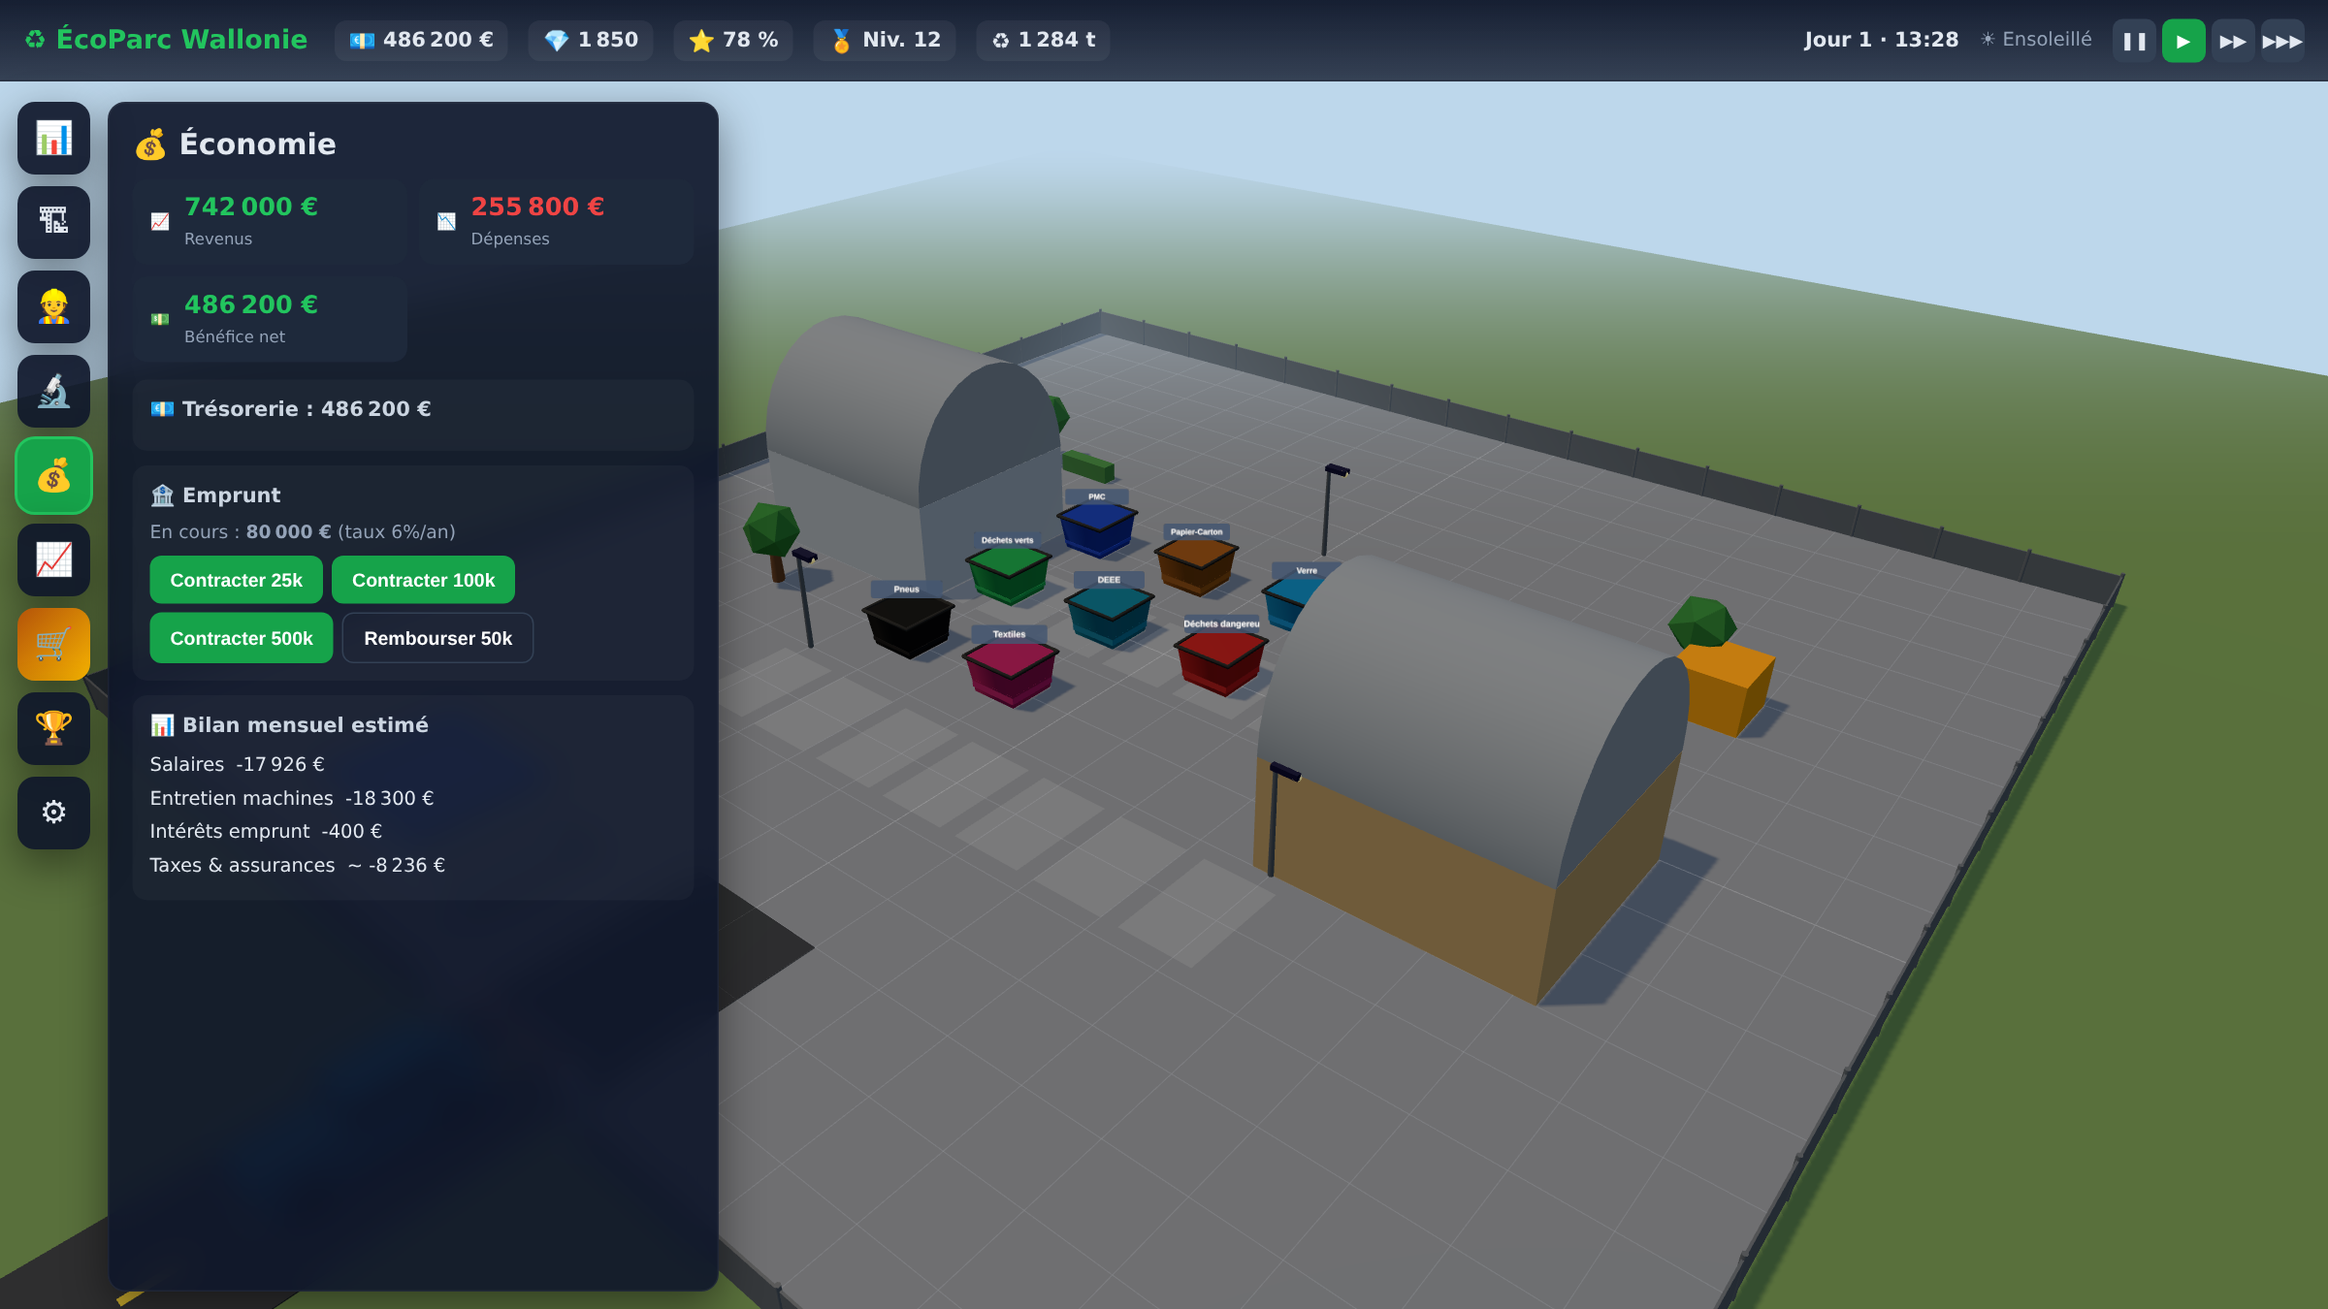
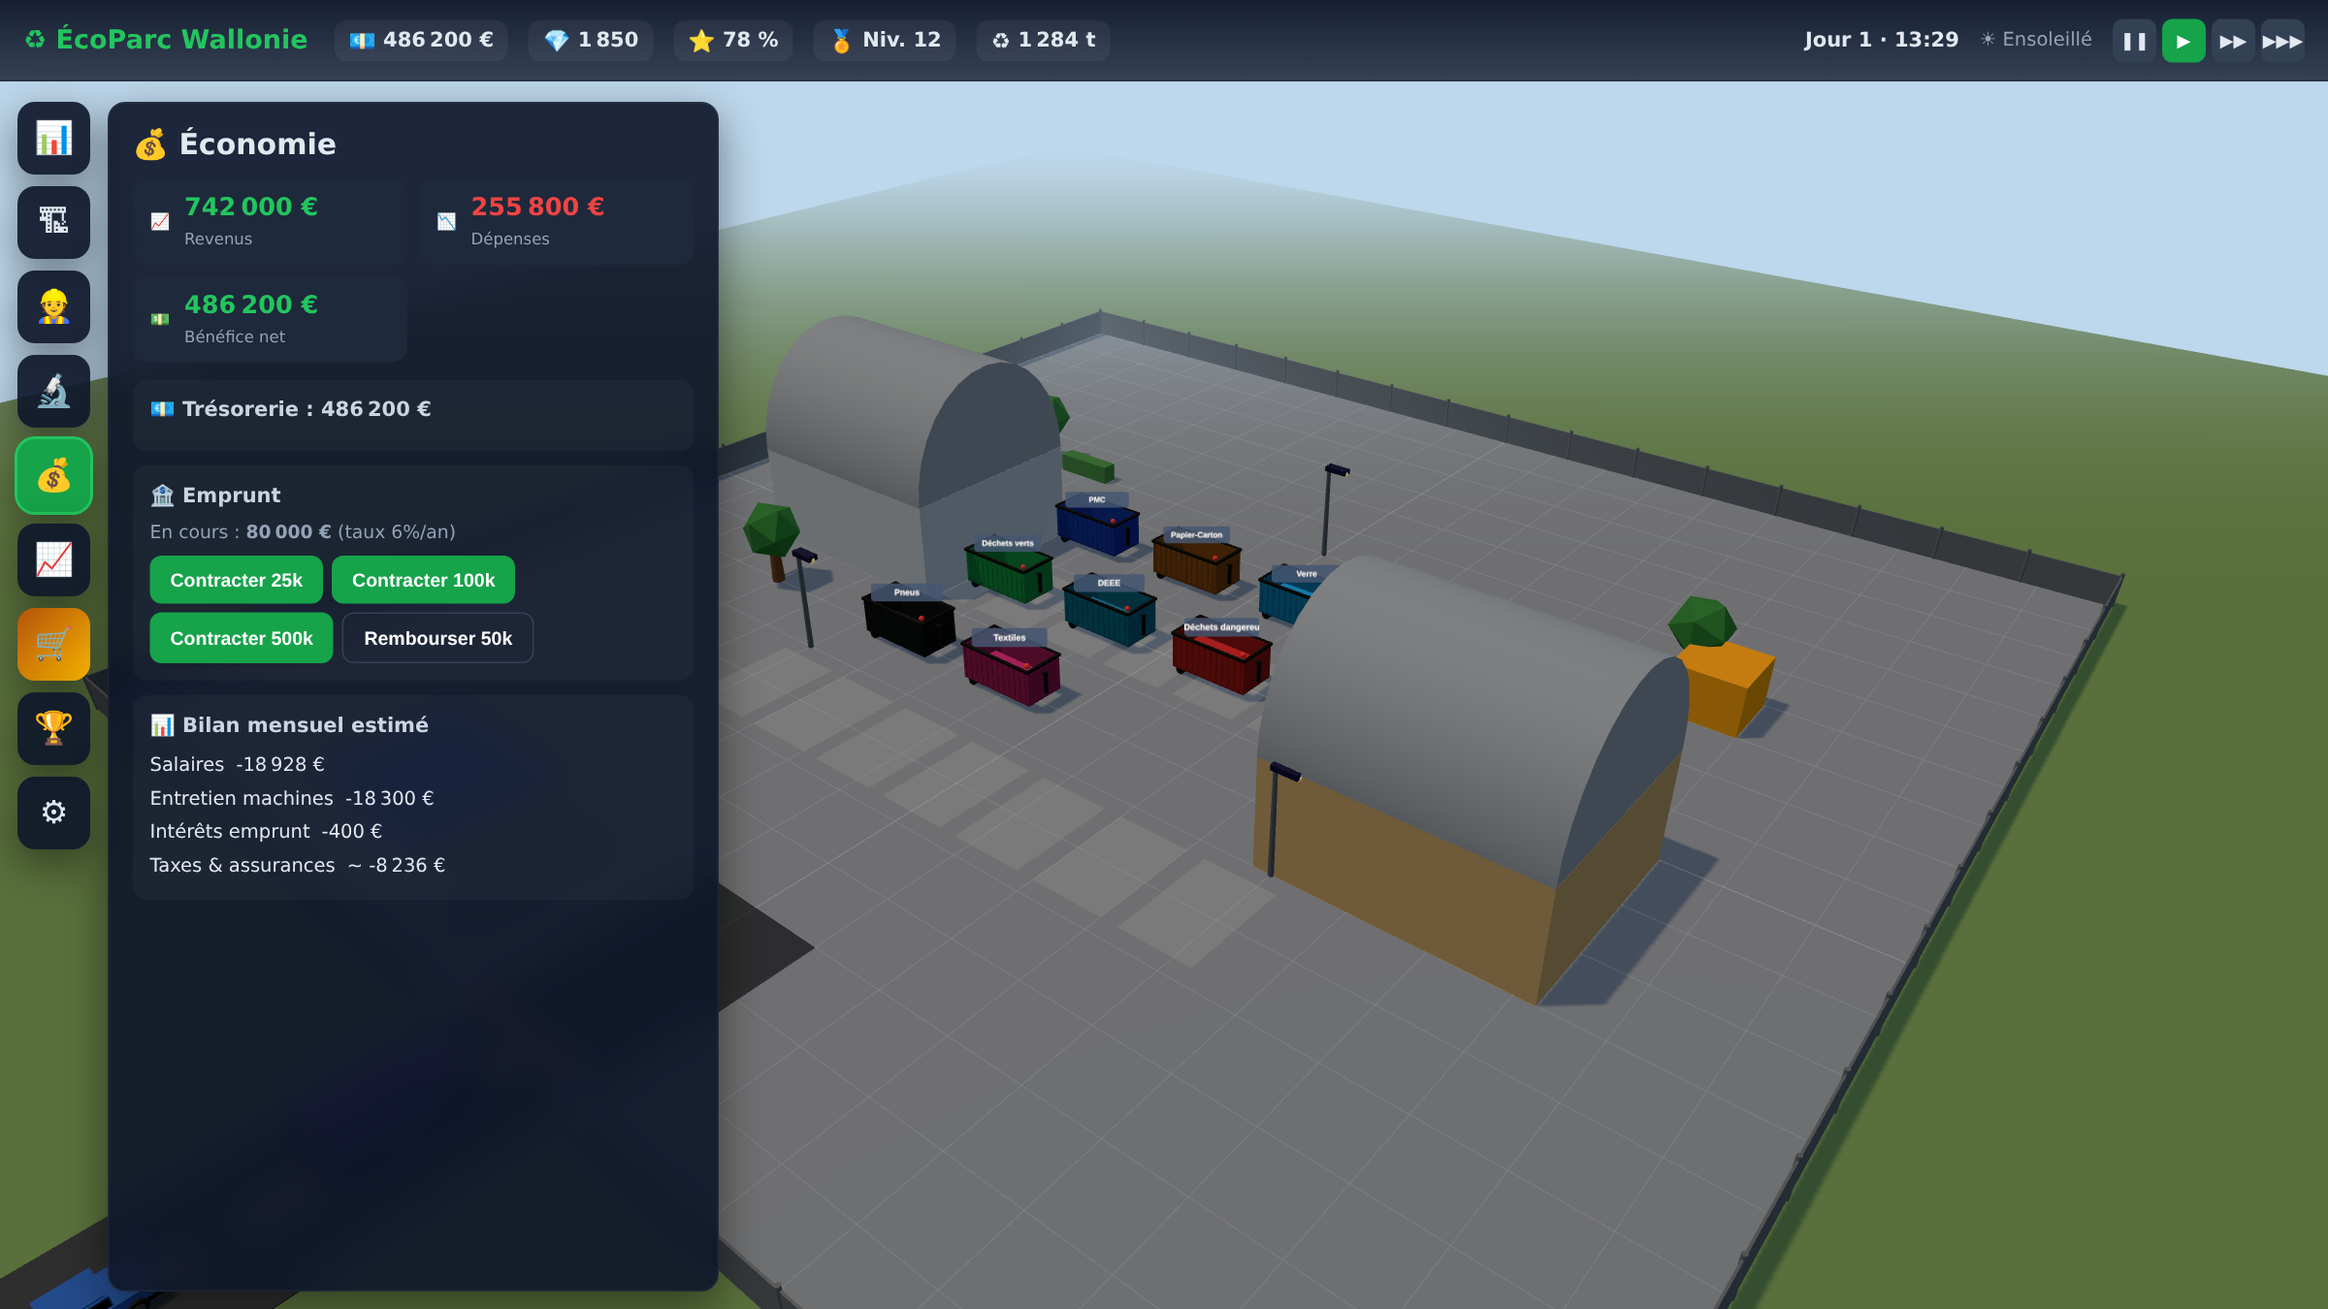
Conteneurs réalistes (bennes roll-off à toit ouvert) + véhicules détaillés
- Conteneurs refaits en bennes ampliroll vertes à toit ouvert (tôle ondulée,
  rebord, barre + crochet, galets, gyrophare 'plein'), façon recyparc belge
- Véhicules procéduraux réalistes : berline, break, camionnette, camion avec
  benne verte, voiture+remorque (habitacle vitré, roues à jantes, feux)
- Captures de la maquette régénérées

Changed region(s): [[0.375, 0.3733, 0.5625, 0.56], [0.0, 0.9644, 0.0625, 1.0]]

diff --git a/src/scene3d.js b/src/scene3d.js
@@ -205,26 +205,60 @@ export class Scene3D {
   // ===========================================================================
 
   // --- Conteneur (benne trapézoïdale) ----------------------------------------
+  // Benne roll-off (conteneur ampliroll) à toit ouvert, façon recyparc belge.
   _makeContainerMesh(fraction) {
     const grp = new THREE.Group();
-    const col = new THREE.Color((FRACTIONS[fraction] && FRACTIONS[fraction].color) || '#4caf50');
-    const mat = new THREE.MeshStandardMaterial({ color: col, metalness: 0.55, roughness: 0.55 });
-    // corps (légèrement évasé)
-    const body = new THREE.Mesh(new THREE.CylinderGeometry(2.4, 2.0, 2.2, 4), mat);
-    body.rotation.y = Math.PI / 4; body.position.y = 1.1;
-    body.castShadow = true; body.receiveShadow = true;
-    grp.add(body);
-    // rebord
-    const rim = new THREE.Mesh(new THREE.TorusGeometry(2.5, 0.12, 6, 4), new THREE.MeshStandardMaterial({ color: 0x222222 }));
-    rim.rotation.x = Math.PI / 2; rim.rotation.z = Math.PI / 4; rim.position.y = 2.2; grp.add(rim);
-    // matière à l'intérieur (jauge de remplissage)
-    const fillMat = new THREE.MeshStandardMaterial({ color: col.clone().multiplyScalar(0.7), roughness: 1 });
-    const fill = new THREE.Mesh(new THREE.BoxGeometry(3.0, 1, 3.0), fillMat);
-    fill.position.y = 0.5; fill.scale.y = 0.02; grp.add(fill);
+    const base = new THREE.Color((FRACTIONS[fraction] && FRACTIONS[fraction].color) || '#2f6b3a');
+    // teinte « acier peint » (assombrie vers le vert industriel)
+    const steel = base.clone().lerp(new THREE.Color('#13351f'), 0.22);
+    const mat = new THREE.MeshStandardMaterial({ color: steel, metalness: 0.55, roughness: 0.5 });
+    const dark = new THREE.MeshStandardMaterial({ color: steel.clone().multiplyScalar(0.72), metalness: 0.55, roughness: 0.55 });
+    const black = new THREE.MeshStandardMaterial({ color: 0x141414, metalness: 0.5, roughness: 0.6 });
+
+    const L = 4.8, W = 2.4, H = 2.0, FY = 0.5, t = 0.12;
+    // plancher
+    const floor = new THREE.Mesh(new THREE.BoxGeometry(L, 0.16, W), dark);
+    floor.position.y = FY; floor.receiveShadow = true; grp.add(floor);
+    // parois longues + courtes (toit ouvert)
+    for (const sz of [-1, 1]) {
+      const s = new THREE.Mesh(new THREE.BoxGeometry(L, H, t), mat);
+      s.position.set(0, FY + H / 2, sz * (W / 2 - t / 2)); s.castShadow = true; s.receiveShadow = true; grp.add(s);
+    }
+    for (const sx of [-1, 1]) {
+      const s = new THREE.Mesh(new THREE.BoxGeometry(t, H, W), mat);
+      s.position.set(sx * (L / 2 - t / 2), FY + H / 2, 0); s.castShadow = true; grp.add(s);
+    }
+    // nervures verticales (tôle ondulée)
+    const ribN = Math.floor(L / 0.42);
+    for (let i = 0; i <= ribN; i++) {
+      const x = -L / 2 + 0.2 + i * (L - 0.4) / ribN;
+      for (const sz of [-1, 1]) {
+        const r = new THREE.Mesh(new THREE.BoxGeometry(0.07, H * 0.92, 0.06), dark);
+        r.position.set(x, FY + H / 2, sz * (W / 2)); grp.add(r);
+      }
+    }
+    // rebord supérieur (4 barres) — laisse le dessus ouvert
+    for (const sz of [-1, 1]) { const r = new THREE.Mesh(new THREE.BoxGeometry(L + 0.12, 0.14, 0.16), black); r.position.set(0, FY + H, sz * (W / 2)); grp.add(r); }
+    for (const sx of [-1, 1]) { const r = new THREE.Mesh(new THREE.BoxGeometry(0.16, 0.14, W + 0.12), black); r.position.set(sx * (L / 2), FY + H, 0); grp.add(r); }
+    // barre + crochet d'ampliroll à l'avant (+X)
+    const bar = new THREE.Mesh(new THREE.BoxGeometry(0.16, 1.3, 0.16), black); bar.position.set(L / 2 + 0.12, FY + H * 0.45, 0); grp.add(bar);
+    const hook = new THREE.Mesh(new THREE.TorusGeometry(0.2, 0.05, 6, 10, Math.PI), black); hook.rotation.x = Math.PI / 2; hook.position.set(L / 2 + 0.12, FY + H * 0.45 + 0.65, 0); grp.add(hook);
+    // galets/roues arrière (-X) caractéristiques du roll-off
+    const roller = new THREE.Mesh(new THREE.CylinderGeometry(0.26, 0.26, W * 0.9, 12), black);
+    roller.rotation.x = Math.PI / 2; roller.position.set(-L / 2 + 0.4, 0.26, 0); grp.add(roller);
+    // matière à l'intérieur (jauge de remplissage, visible par le dessus ouvert)
+    const fill = new THREE.Mesh(new THREE.BoxGeometry(L - 0.4, 1, W - 0.4),
+      new THREE.MeshStandardMaterial({ color: base.clone().multiplyScalar(0.85), roughness: 1, flatShading: true }));
+    fill.position.y = FY + 0.1; fill.scale.y = 0.02; grp.add(fill);
     grp.userData.fill = fill;
-    // panneau d'identification
+    // bandeau d'identification (panneau réfléchissant) sur la paroi avant
     const label = this._makeLabelSprite(FRACTIONS[fraction] ? FRACTIONS[fraction].name : fraction);
-    label.position.set(0, 3.4, 0); grp.add(label);
+    label.position.set(0, FY + H + 0.7, 0); grp.add(label);
+    // gyrophare « plein » (clignote quand saturé)
+    const beacon = new THREE.Mesh(new THREE.SphereGeometry(0.16, 8, 8),
+      new THREE.MeshStandardMaterial({ color: 0xff3b30, emissive: 0xff0000, emissiveIntensity: 0 }));
+    beacon.position.set(L / 2 - 0.3, FY + H + 0.16, W / 2 - 0.3); grp.add(beacon);
+    grp.userData.beacon = beacon;
     grp.userData.kind = 'container';
     return grp;
   }
@@ -244,10 +278,10 @@ export class Scene3D {
     if (!mesh) return;
     const ratio = Math.max(0, Math.min(1, container.fill / container.capacity));
     const fill = mesh.userData.fill;
-    fill.scale.y = Math.max(0.02, ratio * 1.6);
-    fill.position.y = 0.3 + fill.scale.y / 2;
-    // clignote en rouge si plein
-    if (ratio >= 0.98) mesh.userData.full = true; else mesh.userData.full = false;
+    fill.scale.y = Math.max(0.02, ratio * 1.8);
+    fill.position.y = 0.58 + fill.scale.y / 2;
+    // gyrophare « plein »
+    mesh.userData.full = ratio >= 0.98;
   }
 
   removeContainer(id) {
@@ -326,37 +360,108 @@ export class Scene3D {
   }
 
   // --- Véhicules visiteurs ----------------------------------------------------
+  // Véhicules procéduraux réalistes (berline, break, camionnette, camion, remorque).
+  // L'avant du véhicule pointe vers +Z (sens de marche).
   _makeVehicleMesh(v) {
     const grp = new THREE.Group();
     const col = new THREE.Color(v.color);
-    const bodyMat = new THREE.MeshStandardMaterial({ color: col, metalness: 0.5, roughness: 0.4 });
-    const cabH = v.h * 0.6;
-    // châssis
-    const body = new THREE.Mesh(new THREE.BoxGeometry(v.w, v.h * 0.55, v.l), bodyMat);
-    body.position.y = v.h * 0.45; body.castShadow = true; grp.add(body);
-    // cabine / toit
-    const cab = new THREE.Mesh(new THREE.BoxGeometry(v.w * 0.92, cabH, v.l * 0.45),
-      new THREE.MeshStandardMaterial({ color: col.clone().multiplyScalar(1.1), metalness: 0.3, roughness: 0.3 }));
-    cab.position.set(0, v.h * 0.45 + cabH / 2, v.l * 0.15); cab.castShadow = true; grp.add(cab);
-    // vitres
-    const glass = new THREE.Mesh(new THREE.BoxGeometry(v.w * 0.94, cabH * 0.7, v.l * 0.46),
-      new THREE.MeshStandardMaterial({ color: 0x1b2a3a, metalness: 0.6, roughness: 0.1 }));
-    glass.position.copy(cab.position); glass.position.y += 0.02; glass.scale.set(1.01, 1, 1.01); grp.add(glass);
-    // roues
-    const wheelGeo = new THREE.CylinderGeometry(v.h * 0.22, v.h * 0.22, 0.3, 12);
-    const wheelMat = new THREE.MeshStandardMaterial({ color: 0x111111 });
-    const wy = v.h * 0.22;
-    const xoff = v.w / 2;
-    for (const sx of [-1, 1]) for (const sz of [-1, 1]) {
-      const wheel = new THREE.Mesh(wheelGeo, wheelMat);
-      wheel.rotation.z = Math.PI / 2;
-      wheel.position.set(sx * xoff, wy, sz * v.l * 0.32);
-      grp.add(wheel);
-    }
-    // phares
-    for (const sx of [-1, 1]) {
-      const h = new THREE.Mesh(new THREE.SphereGeometry(0.12, 6, 6), new THREE.MeshStandardMaterial({ color: 0xfff7d0, emissive: 0xfff0a0 }));
-      h.position.set(sx * v.w * 0.3, v.h * 0.4, v.l / 2); grp.add(h);
+    const paint = new THREE.MeshStandardMaterial({ color: col, metalness: 0.55, roughness: 0.32 });
+    const paint2 = new THREE.MeshStandardMaterial({ color: col.clone().multiplyScalar(0.92), metalness: 0.55, roughness: 0.32 });
+    const glass = new THREE.MeshStandardMaterial({ color: 0x0d1722, metalness: 0.9, roughness: 0.08 });
+    const trim = new THREE.MeshStandardMaterial({ color: 0x15171a, roughness: 0.7, metalness: 0.3 });
+    const chrome = new THREE.MeshStandardMaterial({ color: 0xccd2d8, metalness: 0.9, roughness: 0.25 });
+    const lightF = new THREE.MeshStandardMaterial({ color: 0xfff6d5, emissive: 0xfff0b0, emissiveIntensity: 0.85 });
+    const lightR = new THREE.MeshStandardMaterial({ color: 0x6e0d0d, emissive: 0xff2222, emissiveIntensity: 0.55 });
+    const green = new THREE.MeshStandardMaterial({ color: 0x2f6b3a, metalness: 0.5, roughness: 0.6 });
+
+    const W = v.w, L = v.l, H = v.h;
+    const wheelR = Math.max(0.3, H * 0.21);
+    let cl = L, cz = 0; // longueur/centre de la caisse (modifiables pour la remorque)
+
+    const addWheel = (x, z, r = wheelR) => {
+      const tire = new THREE.Mesh(new THREE.CylinderGeometry(r, r, 0.32, 16), trim);
+      tire.rotation.z = Math.PI / 2; tire.position.set(x, r, z); tire.castShadow = true; grp.add(tire);
+      const hub = new THREE.Mesh(new THREE.CylinderGeometry(r * 0.55, r * 0.55, 0.34, 8), chrome);
+      hub.rotation.z = Math.PI / 2; hub.position.set(x, r, z); grp.add(hub);
+    };
+    const addLights = (frontZ, backZ) => {
+      for (const sx of [-1, 1]) {
+        const hl = new THREE.Mesh(new THREE.BoxGeometry(0.3, 0.18, 0.07), lightF); hl.position.set(sx * W * 0.32, wheelR + 0.28, frontZ); grp.add(hl);
+        const tl = new THREE.Mesh(new THREE.BoxGeometry(0.3, 0.16, 0.07), lightR); tl.position.set(sx * W * 0.32, wheelR + 0.32, backZ); grp.add(tl);
+      }
+    };
+
+    const buildCar = (wagon) => {
+      const bH = 0.5, bY = wheelR + 0.04;
+      const lower = new THREE.Mesh(new THREE.BoxGeometry(W, bH, cl * 0.98), paint);
+      lower.position.set(0, bY + bH / 2, cz); lower.castShadow = true; grp.add(lower);
+      const skirt = new THREE.Mesh(new THREE.BoxGeometry(W * 1.01, 0.18, cl * 0.99), trim);
+      skirt.position.set(0, bY, cz); grp.add(skirt);
+      const cabL = wagon ? cl * 0.55 : cl * 0.44;
+      const cabZ = cz + (wagon ? -cl * 0.02 : -cl * 0.05);
+      const cab = new THREE.Mesh(new THREE.BoxGeometry(W * 0.9, 0.46, cabL), paint2);
+      cab.position.set(0, bY + bH + 0.22, cabZ); cab.castShadow = true; grp.add(cab);
+      const gb = new THREE.Mesh(new THREE.BoxGeometry(W * 0.93, 0.34, cabL * 0.95), glass);
+      gb.position.set(0, bY + bH + 0.22, cabZ); grp.add(gb);
+      const roof = new THREE.Mesh(new THREE.BoxGeometry(W * 0.82, 0.1, cabL * 0.9), paint2);
+      roof.position.set(0, bY + bH + 0.46, cabZ); grp.add(roof);
+      for (const sz of [1, -1]) { const b = new THREE.Mesh(new THREE.BoxGeometry(W * 0.98, 0.2, 0.16), trim); b.position.set(0, bY + 0.04, cz + sz * cl * 0.49); grp.add(b); }
+      addWheel(W / 2 - 0.04, cz + cl * 0.3); addWheel(-W / 2 + 0.04, cz + cl * 0.3);
+      addWheel(W / 2 - 0.04, cz - cl * 0.3); addWheel(-W / 2 + 0.04, cz - cl * 0.3);
+      addLights(cz + cl * 0.49, cz - cl * 0.49);
+    };
+
+    const buildVan = () => {
+      const bY = wheelR + 0.02;
+      const cab = new THREE.Mesh(new THREE.BoxGeometry(W, H * 0.6, L * 0.3), paint);
+      cab.position.set(0, bY + H * 0.3, L * 0.33); cab.castShadow = true; grp.add(cab);
+      const ws = new THREE.Mesh(new THREE.BoxGeometry(W * 0.9, H * 0.32, 0.08), glass);
+      ws.position.set(0, bY + H * 0.4, L * 0.48); grp.add(ws);
+      for (const sx of [-1, 1]) { const sw = new THREE.Mesh(new THREE.BoxGeometry(0.06, H * 0.26, L * 0.22), glass); sw.position.set(sx * W * 0.5, bY + H * 0.4, L * 0.34); grp.add(sw); }
+      const box = new THREE.Mesh(new THREE.BoxGeometry(W, H * 0.92, L * 0.64), paint2);
+      box.position.set(0, bY + H * 0.46, -L * 0.12); box.castShadow = true; grp.add(box);
+      const door = new THREE.Mesh(new THREE.BoxGeometry(W * 0.97, H * 0.86, 0.05), trim);
+      door.position.set(0, bY + H * 0.46, -L * 0.44); grp.add(door);
+      addWheel(W / 2 - 0.04, L * 0.3); addWheel(-W / 2 + 0.04, L * 0.3);
+      addWheel(W / 2 - 0.04, -L * 0.3); addWheel(-W / 2 + 0.04, -L * 0.3);
+      addLights(L * 0.49, -L * 0.46);
+    };
+
+    const buildTruck = () => {
+      const bY = wheelR + 0.12;
+      const cab = new THREE.Mesh(new THREE.BoxGeometry(W, H * 0.66, L * 0.24), paint);
+      cab.position.set(0, bY + H * 0.33, L * 0.36); cab.castShadow = true; grp.add(cab);
+      const ws = new THREE.Mesh(new THREE.BoxGeometry(W * 0.9, H * 0.36, 0.08), glass);
+      ws.position.set(0, bY + H * 0.42, L * 0.48); grp.add(ws);
+      const chassis = new THREE.Mesh(new THREE.BoxGeometry(W * 0.88, 0.22, L * 0.72), trim);
+      chassis.position.set(0, bY - 0.02, -L * 0.1); grp.add(chassis);
+      // benne verte transportée (ampliroll)
+      const skip = new THREE.Mesh(new THREE.BoxGeometry(W * 0.92, H * 0.5, L * 0.6), green);
+      skip.position.set(0, bY + H * 0.32, -L * 0.12); skip.castShadow = true; grp.add(skip);
+      for (let i = 0; i < 6; i++) { const r = new THREE.Mesh(new THREE.BoxGeometry(0.06, H * 0.46, 0.05), new THREE.MeshStandardMaterial({ color: 0x244f2c })); r.position.set(-W * 0.4 + i * (W * 0.8 / 5), bY + H * 0.32, L * 0.18); grp.add(r); }
+      addWheel(W / 2 - 0.04, L * 0.34); addWheel(-W / 2 + 0.04, L * 0.34);
+      addWheel(W / 2 - 0.04, -L * 0.16); addWheel(-W / 2 + 0.04, -L * 0.16);
+      addWheel(W / 2 - 0.04, -L * 0.34); addWheel(-W / 2 + 0.04, -L * 0.34);
+      addLights(L * 0.48, -L * 0.46);
+    };
+
+    const buildCarTrailer = () => {
+      cl = 3.5; cz = L * 0.28; buildCar(false);
+      const tz = -L * 0.27, tW = W * 0.95;
+      const bed = new THREE.Mesh(new THREE.BoxGeometry(tW, 0.18, L * 0.46), trim); bed.position.set(0, wheelR + 0.14, tz); bed.castShadow = true; grp.add(bed);
+      for (const sx of [-1, 1]) { const side = new THREE.Mesh(new THREE.BoxGeometry(0.07, 0.42, L * 0.46), paint2); side.position.set(sx * tW * 0.5, wheelR + 0.37, tz); grp.add(side); }
+      const f = new THREE.Mesh(new THREE.BoxGeometry(tW, 0.42, 0.07), paint2); f.position.set(0, wheelR + 0.37, tz + L * 0.23); grp.add(f);
+      const bk = new THREE.Mesh(new THREE.BoxGeometry(tW, 0.42, 0.07), paint2); bk.position.set(0, wheelR + 0.37, tz - L * 0.23); grp.add(bk);
+      const tow = new THREE.Mesh(new THREE.BoxGeometry(0.1, 0.1, L * 0.18), chrome); tow.position.set(0, wheelR + 0.06, tz + L * 0.33); grp.add(tow);
+      addWheel(W / 2 - 0.08, tz, wheelR * 0.85); addWheel(-W / 2 + 0.08, tz, wheelR * 0.85);
+    };
+
+    switch (v.id) {
+      case 'break': buildCar(true); break;
+      case 'utilitaire': case 'camionnette': buildVan(); break;
+      case 'camion': buildTruck(); break;
+      case 'remorque': buildCarTrailer(); break;
+      case 'voiture': default: buildCar(false);
     }
     grp.userData.kind = 'vehicle';
     return grp;
@@ -615,9 +720,12 @@ export class Scene3D {
     for (const ent of [...this.vehicles]) this._stepVehicle(ent, dt);
     this._stepWeather(dt);
     this._updateLamps();
-    // conteneurs pleins : pulsation
-    const pulse = 1 + Math.sin(performance.now() / 200) * 0.04;
-    this.containers.forEach(mesh => { if (mesh.userData.full) mesh.scale.y = pulse; else mesh.scale.y = 1; });
+    // conteneurs pleins : gyrophare clignotant
+    const blink = 0.5 + 0.5 * Math.sin(performance.now() / 150);
+    this.containers.forEach(mesh => {
+      const b = mesh.userData.beacon;
+      if (b) b.material.emissiveIntensity = mesh.userData.full ? blink : 0;
+    });
     // feux
     const now = performance.now();
     for (const s of [...this.smoke]) {
